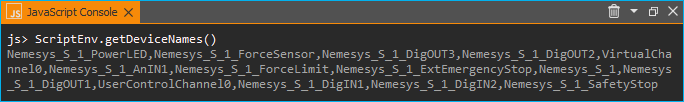
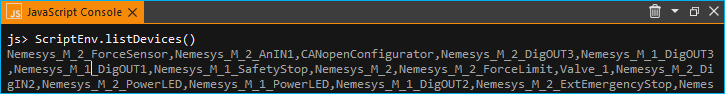
Documented listObjects() and listDevices() in german documentation

diff --git a/CETONI_Elements_Manual_DE/javascript_DE/javascript_DE.rst b/CETONI_Elements_Manual_DE/javascript_DE/javascript_DE.rst
@@ -121,7 +121,7 @@ Verwendung von Geräteobjekten
 
 Sie können auf Geräteobjekte mit der Funktion :code:`ScriptEnv.getDevice()` zugreifen. 
 Um eine Übersicht der verfügbaren Gerätenamen zu erhalten, können Sie die Funktion 
-:code:`ScriptEnv.getDeviceNames()` aufrufen.
+:code:`ScriptEnv.listDevices()` aufrufen.
 
 .. image:: Pictures/js_console_device_names.png
 
@@ -198,7 +198,7 @@ Verwendung von Anwendungsobjekten
 
 Ähnlich wie bei Geräteobjekten können Sie auch auf Anwendungsobjekte zugreifen, 
 die keine Geräte sind. Verwenden Sie dazu die beiden Funktionen 
-:code:`ScriptEnv.getObject()` und :code:`ScriptEnv.getObjectNames()`
+:code:`ScriptEnv.getObject()` und :code:`ScriptEnv.listObjects()`
 
 Der folgende Code zeigt, wie man das Anwendungsobjekt des grafischen Loggers über 
 das :code:`ScriptEnv`-Objekt abruft und dann die Protokollierung startet:
@@ -365,8 +365,8 @@ Abschnitt `Nebenläufige Ausführung`_.
 
 .. image:: Pictures/concurrent_execution.png
 
-Anders als bei den Funktionen :ref:`Variablen anlegen` oder 
-:ref:`Variable erzeugen<variable erzeugen – *create variable*>` ist 
+Anders als bei den Scriptfunktionen :ref:`Set Variable<set_variable>` oder 
+:ref:`Create Variable<create_variable>` ist 
 es hier nicht erlaubt, Variablenbezeichner (wie :code:`$Flow`) oder Geräteeigenschaften 
 (wie :code:`$$Nemesys_S_1.ActualFlow`) direkt im JavaScript-Quellcode zu verwenden. 
 Das heißt, der folgende Code ist **falsch** und **ungültig**:

diff --git a/CETONI_Elements_Manual_DE/scriptingsystem_part2_DE/scriptingsystem_part2_DE.rst b/CETONI_Elements_Manual_DE/scriptingsystem_part2_DE/scriptingsystem_part2_DE.rst
@@ -212,7 +212,7 @@ Funktion folgende Nachricht ausgeben:
 
 .. _show_message_rich_text:
 
-Rich Text Unterstützung
+Rich-Text Unterstützung
 ^^^^^^^^^^^^^^^^^^^^^^^^^^^^^^^^^^^^^^^^^^^^^
 
 Wenn Sie die :guilabel:`Enable rich text` Option aktivieren, erhalten Sie
